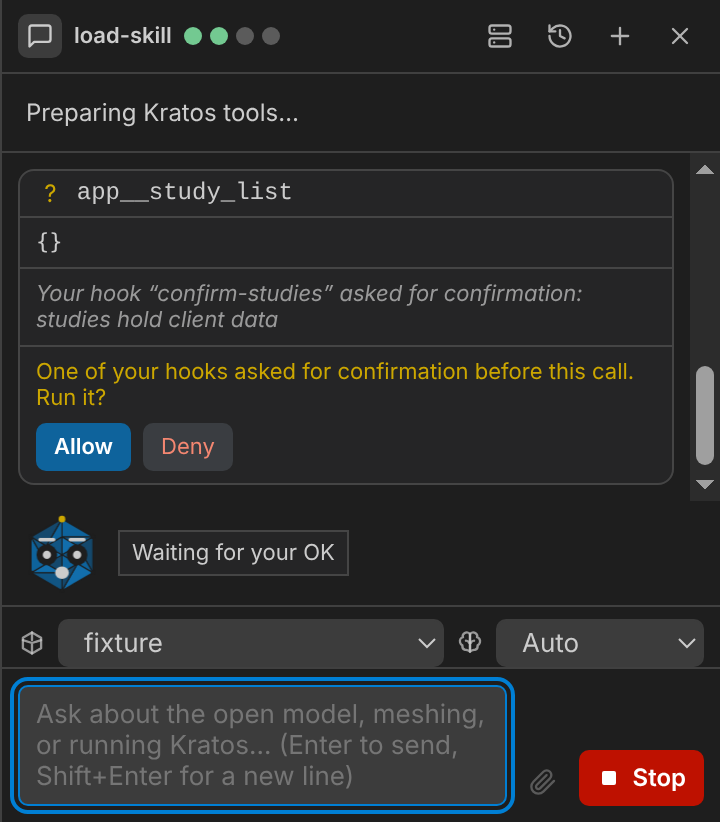
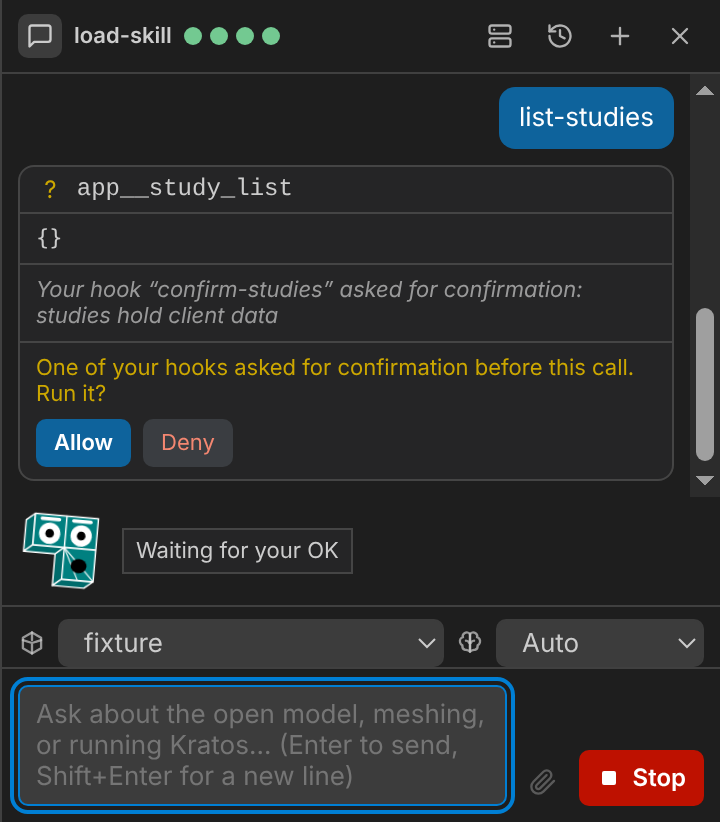
feat: Kraty drawn after the Kratos Multiphysics mark (teal extruded L-block, triangulated cell)
Claude-Session: https://claude.ai/code/session_01RsDEZqnXUMQa7xFqQx1wZi

diff --git a/app/renderer/chat/kraty.ts b/app/renderer/chat/kraty.ts
@@ -8,51 +8,40 @@ import { BUBBLE_KEYS, EXPRESSIONS, INITIAL_SIGNALS, reduceSignals, stateOf } fro
 import type { KratyEvent, KratySignals, KratyState } from "./kratyCore";
 
 const SVG = `
-<svg viewBox="0 0 64 64" width="44" height="44" aria-hidden="true" focusable="false">
-  <g class="k-body">
-    <g class="k-mesh">
-      <polygon class="k-facet k-f0" points="32.0,8.0 54.5,21.0 32.0,21.0" />
-      <polygon class="k-facet k-f1" points="54.5,21.0 43.3,27.5 32.0,21.0" />
-      <polygon class="k-facet k-f2" points="32.0,34.0 32.0,21.0 43.3,27.5" />
-      <polygon class="k-facet k-f3" points="54.5,21.0 54.5,47.0 43.3,27.5" />
-      <polygon class="k-facet k-f0" points="54.5,47.0 43.3,40.5 43.3,27.5" />
-      <polygon class="k-facet k-f1" points="32.0,34.0 43.3,27.5 43.3,40.5" />
-      <polygon class="k-facet k-f2" points="54.5,47.0 32.0,60.0 43.3,40.5" />
-      <polygon class="k-facet k-f3" points="32.0,60.0 32.0,47.0 43.3,40.5" />
-      <polygon class="k-facet k-f0" points="32.0,34.0 43.3,40.5 32.0,47.0" />
-      <polygon class="k-facet k-f1" points="32.0,60.0 9.5,47.0 32.0,47.0" />
-      <polygon class="k-facet k-f2" points="9.5,47.0 20.7,40.5 32.0,47.0" />
-      <polygon class="k-facet k-f3" points="32.0,34.0 32.0,47.0 20.7,40.5" />
-      <polygon class="k-facet k-f0" points="9.5,47.0 9.5,21.0 20.7,40.5" />
-      <polygon class="k-facet k-f1" points="9.5,21.0 20.7,27.5 20.7,40.5" />
-      <polygon class="k-facet k-f2" points="32.0,34.0 20.7,40.5 20.7,27.5" />
-      <polygon class="k-facet k-f3" points="9.5,21.0 32.0,8.0 20.7,27.5" />
-      <polygon class="k-facet k-f0" points="32.0,8.0 32.0,21.0 20.7,27.5" />
-      <polygon class="k-facet k-f1" points="32.0,34.0 20.7,27.5 32.0,21.0" />
-      <circle class="k-node" cx="54.5" cy="21.0" r="1.6" /><circle class="k-node" cx="54.5" cy="47.0" r="1.6" /><circle class="k-node" cx="32.0" cy="60.0" r="1.6" /><circle class="k-node" cx="9.5" cy="47.0" r="1.6" /><circle class="k-node" cx="9.5" cy="21.0" r="1.6" /><circle class="k-tip" cx="32.0" cy="8.0" r="2.4" />
+<svg viewBox="0 0 64 64" width="46" height="46" aria-hidden="true" focusable="false">
+  <g transform="rotate(5 30 32)"><g class="k-body">
+    <g class="k-block">
+      <polygon class="k-face k-side" points="10,8 10,30 4,35 4,13" />
+      <polygon class="k-face k-side" points="10,30 32,30 26,35 4,35" />
+      <polygon class="k-face k-side" points="32,30 32,52 26,57 26,35" />
+      <polygon class="k-face k-side" points="32,52 54,52 48,57 26,57" />
+      <polygon class="k-face" points="10,8 32,8 32,30 10,30" />
+      <polygon class="k-face" points="32,8 54,8 54,30 32,30" />
+      <polygon class="k-face" points="32,30 54,30 54,52 32,52" />
+      <line class="k-fan" x1="32" y1="30" x2="54" y2="52" /><line class="k-fan" x1="32" y1="30" x2="43" y2="52" />
     </g>
     <g class="k-brows">
-      <g class="k-brow-flat"><line class="k-stroke" x1="16" y1="26" x2="26" y2="26" /><line class="k-stroke" x1="38" y1="26" x2="48" y2="26" /></g>
-      <g class="k-brow-raised"><line class="k-stroke" x1="16" y1="23" x2="26" y2="23" /><line class="k-stroke" x1="38" y1="23" x2="48" y2="23" /></g>
-      <g class="k-brow-furrowed"><line class="k-stroke" x1="16" y1="24" x2="26" y2="28" /><line class="k-stroke" x1="38" y1="28" x2="48" y2="24" /></g>
-      <g class="k-brow-worried"><line class="k-stroke" x1="16" y1="28" x2="26" y2="24" /><line class="k-stroke" x1="38" y1="24" x2="48" y2="28" /></g>
+      <g class="k-brow-flat"><line class="k-stroke" x1="15" y1="12.5" x2="27" y2="12.5" /><line class="k-stroke" x1="37" y1="12.5" x2="49" y2="12.5" /></g>
+      <g class="k-brow-raised"><line class="k-stroke" x1="15" y1="11" x2="27" y2="11" /><line class="k-stroke" x1="37" y1="11" x2="49" y2="11" /></g>
+      <g class="k-brow-furrowed"><line class="k-stroke" x1="15" y1="11.5" x2="27" y2="14.5" /><line class="k-stroke" x1="37" y1="14.5" x2="49" y2="11.5" /></g>
+      <g class="k-brow-worried"><line class="k-stroke" x1="15" y1="14.5" x2="27" y2="11.5" /><line class="k-stroke" x1="37" y1="11.5" x2="49" y2="14.5" /></g>
     </g>
     <g class="k-eyes">
-      <g class="k-eye-open k-blink"><circle class="k-white" cx="21" cy="34" r="6" /><circle class="k-white" cx="43" cy="34" r="6" /><g class="k-pupils"><circle class="k-pupil" cx="21" cy="34" r="2.6" /><circle class="k-pupil" cx="43" cy="34" r="2.6" /></g></g>
-      <g class="k-eye-wide"><circle class="k-white" cx="21" cy="34" r="7.5" /><circle class="k-white" cx="43" cy="34" r="7.5" /><circle class="k-pupil" cx="21" cy="34" r="3" /><circle class="k-pupil" cx="43" cy="34" r="3" /></g>
-      <g class="k-eye-closed"><line class="k-stroke" x1="15" y1="35" x2="27" y2="35" /><line class="k-stroke" x1="37" y1="35" x2="49" y2="35" /></g>
-      <g class="k-eye-happy"><path class="k-stroke k-nofill" d="M15 37 Q21 29 27 37" /><path class="k-stroke k-nofill" d="M37 37 Q43 29 49 37" /></g>
-      <g class="k-eye-worried"><circle class="k-white" cx="21" cy="35" r="6" /><circle class="k-white" cx="43" cy="35" r="6" /><circle class="k-pupil" cx="21" cy="37" r="2.6" /><circle class="k-pupil" cx="43" cy="37" r="2.6" /></g>
+      <g class="k-eye-open k-blink"><circle class="k-white" cx="21" cy="21" r="6" /><circle class="k-white" cx="43" cy="21" r="6" /><g class="k-pupils"><circle class="k-pupil" cx="21" cy="21" r="2.6" /><circle class="k-pupil" cx="43" cy="21" r="2.6" /></g></g>
+      <g class="k-eye-wide"><circle class="k-white" cx="21" cy="21" r="7.4" /><circle class="k-white" cx="43" cy="21" r="7.4" /><circle class="k-pupil" cx="21" cy="21" r="3" /><circle class="k-pupil" cx="43" cy="21" r="3" /></g>
+      <g class="k-eye-closed"><line class="k-stroke" x1="15" y1="22" x2="27" y2="22" /><line class="k-stroke" x1="37" y1="22" x2="49" y2="22" /></g>
+      <g class="k-eye-happy"><path class="k-stroke k-nofill" d="M15 24 Q21 15 27 24" /><path class="k-stroke k-nofill" d="M37 24 Q43 15 49 24" /></g>
+      <g class="k-eye-worried"><circle class="k-white" cx="21" cy="22" r="6" /><circle class="k-white" cx="43" cy="22" r="6" /><circle class="k-pupil" cx="21" cy="24" r="2.6" /><circle class="k-pupil" cx="43" cy="24" r="2.6" /></g>
     </g>
     <g class="k-mouth">
-      <path class="k-stroke k-nofill k-mouth-smile" d="M24 45 Q32 52 40 45" />
-      <line class="k-stroke k-mouth-flat" x1="26" y1="47" x2="38" y2="47" />
-      <circle class="k-pupil k-mouth-small" cx="32" cy="47" r="2.4" />
-      <ellipse class="k-pupil k-mouth-open" cx="32" cy="47" rx="5" ry="4.5" />
-      <ellipse class="k-pupil k-mouth-talk" cx="32" cy="47" rx="5" ry="3" />
-      <path class="k-stroke k-nofill k-mouth-frown" d="M24 50 Q32 43 40 50" />
+      <path class="k-stroke k-nofill k-mouth-smile" d="M36 38 Q43 46 50 38" />
+      <line class="k-stroke k-mouth-flat" x1="37" y1="42" x2="49" y2="42" />
+      <circle class="k-pupil k-mouth-small" cx="43" cy="42" r="2.6" />
+      <ellipse class="k-pupil k-mouth-open" cx="43" cy="42" rx="5.5" ry="5" />
+      <ellipse class="k-pupil k-mouth-talk" cx="43" cy="42" rx="5.5" ry="3.2" />
+      <path class="k-stroke k-nofill k-mouth-frown" d="M36 46 Q43 38 50 46" />
     </g>
-  </g>
+  </g></g>
 </svg>`;
 
 /** How long "Done" lingers before Kraty settles back to idle. */

diff --git a/app/renderer/chat/chat.css b/app/renderer/chat/chat.css
@@ -779,16 +779,13 @@ body {
 }
 .kraty-bubble[hidden] { display: none; }
 
-#kraty .k-facet { fill: var(--vscode-button-background); stroke: var(--vscode-editor-background); stroke-width: 0.8; stroke-linejoin: round; }
-#kraty .k-f0 { fill-opacity: 1; }
-#kraty .k-f1 { fill-opacity: 0.8; }
-#kraty .k-f2 { fill: var(--vscode-button-hoverBackground); fill-opacity: 0.9; }
-#kraty .k-f3 { fill-opacity: 0.62; }
-#kraty .k-node { fill: var(--vscode-editor-background); }
-#kraty .k-tip { fill: var(--vscode-charts-yellow); }
-#kraty .k-white { fill: var(--vscode-editor-background); }
-#kraty .k-pupil { fill: var(--vscode-foreground); }
-#kraty .k-stroke { stroke: var(--vscode-foreground); stroke-width: 2.4; stroke-linecap: round; fill: none; }
+/* The Kratos Multiphysics mark's own palette: flat teal, white edges, black. Brand colours, not theme colours. */
+#kraty .k-face { fill: #008080; stroke: #fff; stroke-width: 1; stroke-linejoin: round; }
+#kraty .k-side { fill: #006b6b; }
+#kraty .k-fan { stroke: #fff; stroke-width: 0.9; opacity: 0.85; }
+#kraty .k-white { fill: #fff; }
+#kraty .k-pupil { fill: #000; }
+#kraty .k-stroke { stroke: #fff; stroke-width: 2.4; stroke-linecap: round; fill: none; }
 #kraty .k-stroke.k-nofill { fill: none; }
 
 /* One variant of each feature visible, chosen by the data-* the glue sets. */

diff --git a/doc/guide/getting-started.md b/doc/guide/getting-started.md
@@ -228,7 +228,7 @@ These tool-result images live for as long as the app is running. They are not wr
 
 ### Kraty
 
-Turn on **Settings ▸ LLM Assistant ▸ Kraty** to show a small animated face above the message box: a hexagonal head tessellated into triangles, like a finite-element mesh (original artwork, inspired by the Kratos Multiphysics look rather than copying its logo). It is off by default and never opens, focuses, sounds or pops up by itself. Its expression only mirrors what the sidebar already shows: *thinking* while the model has not started writing, *writing* while text streams in, *running a tool* while a tool call has no result yet, *waiting for your OK* while an approval prompt is open, *done* briefly when a turn ends, and a worried face after an error. The speech bubble uses fixed interface strings, never text from the model or a tool. With reduced motion enabled in the system, the expression still changes but the idle bobbing and blinking stop, and the animation pauses while the sidebar is hidden.
+Turn on **Settings ▸ LLM Assistant ▸ Kraty** to show a small animated face above the message box: drawn after the Kratos Multiphysics mark: a flat teal block of three extruded cells with thin white edges, the bottom cell split into triangles. The eyes sit in the top two cells and the mouth in the triangulated one (original artwork in the mark's palette, not a copy of the logo). It is off by default and never opens, focuses, sounds or pops up by itself. Its expression only mirrors what the sidebar already shows: *thinking* while the model has not started writing, *writing* while text streams in, *running a tool* while a tool call has no result yet, *waiting for your OK* while an approval prompt is open, *done* briefly when a turn ends, and a worried face after an error. The speech bubble uses fixed interface strings, never text from the model or a tool. With reduced motion enabled in the system, the expression still changes but the idle bobbing and blinking stop, and the animation pauses while the sidebar is hidden.
 
 ![Kraty waiting for approval of a tool call](/screenshots/chat-kraty.png)
 
